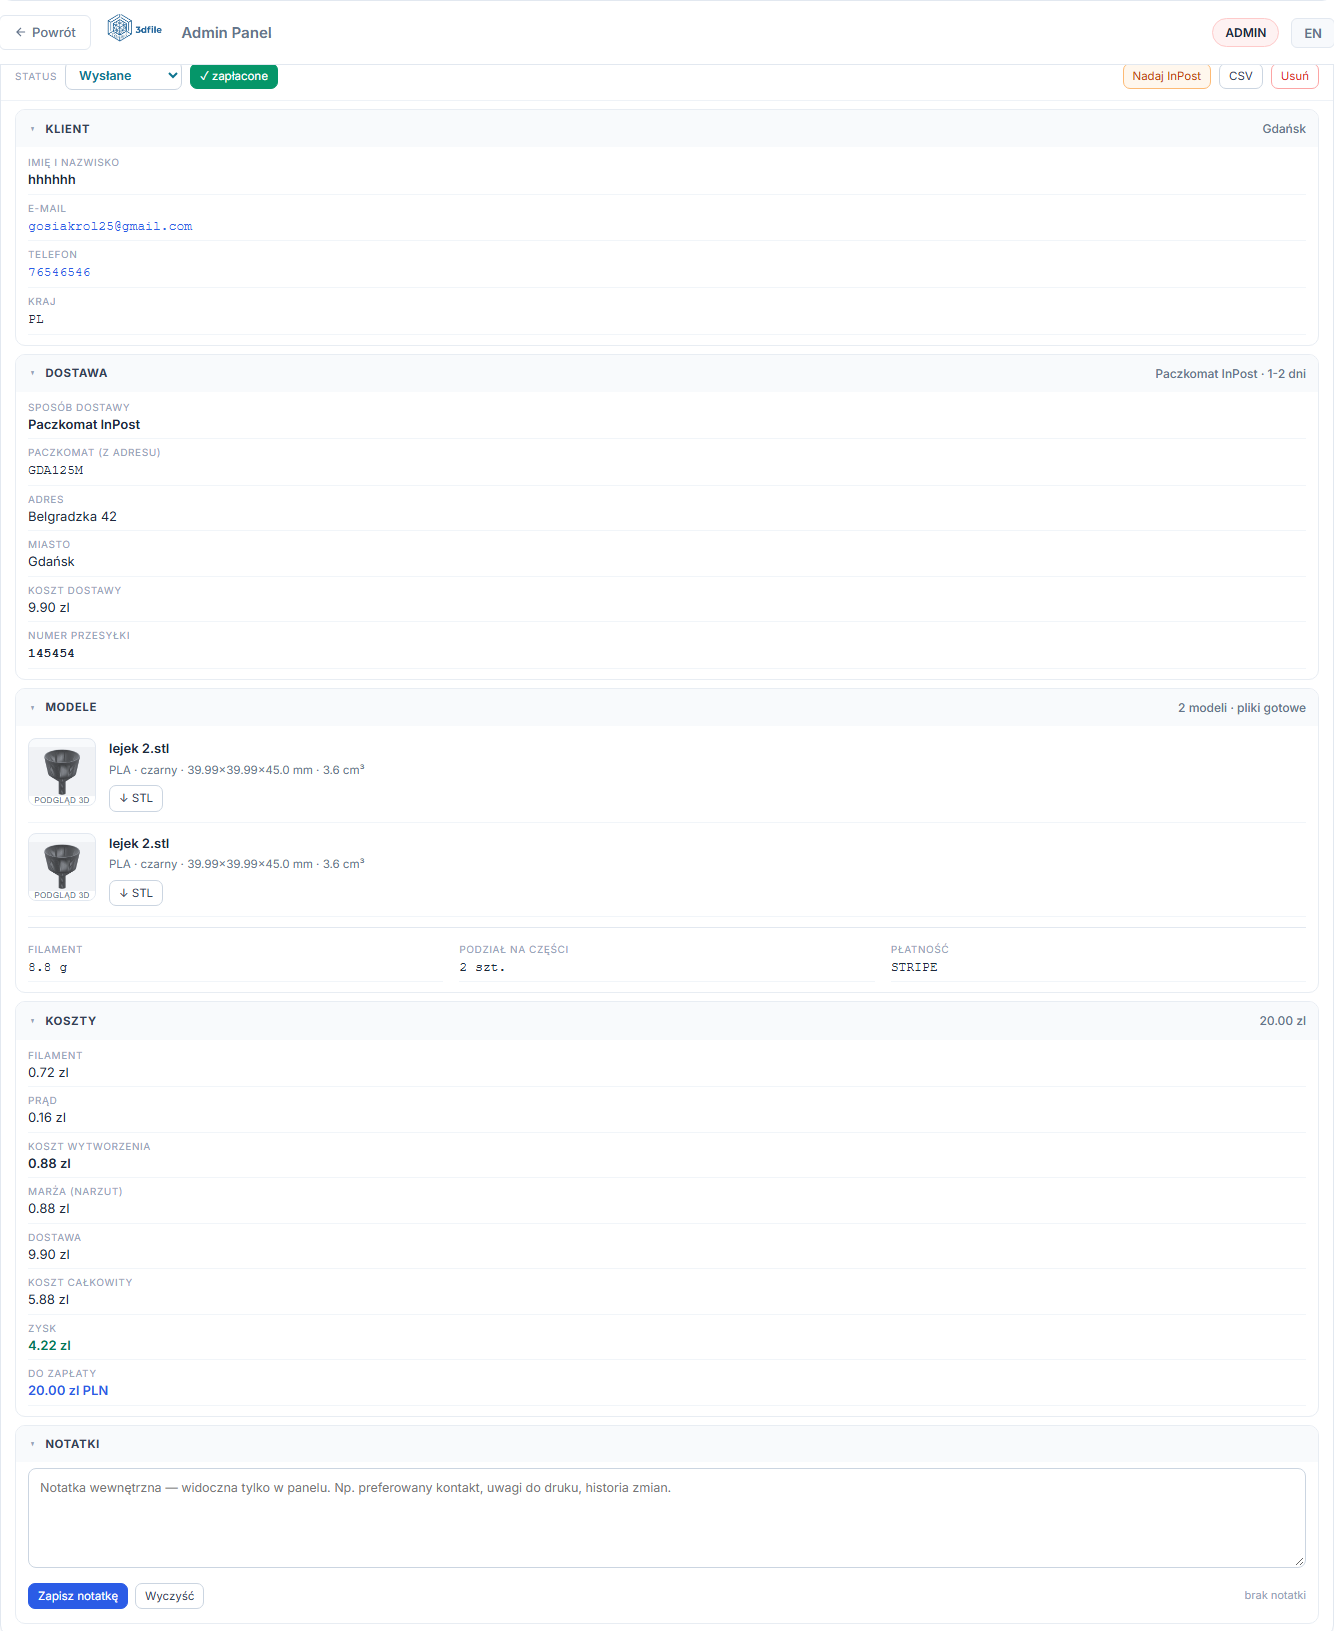
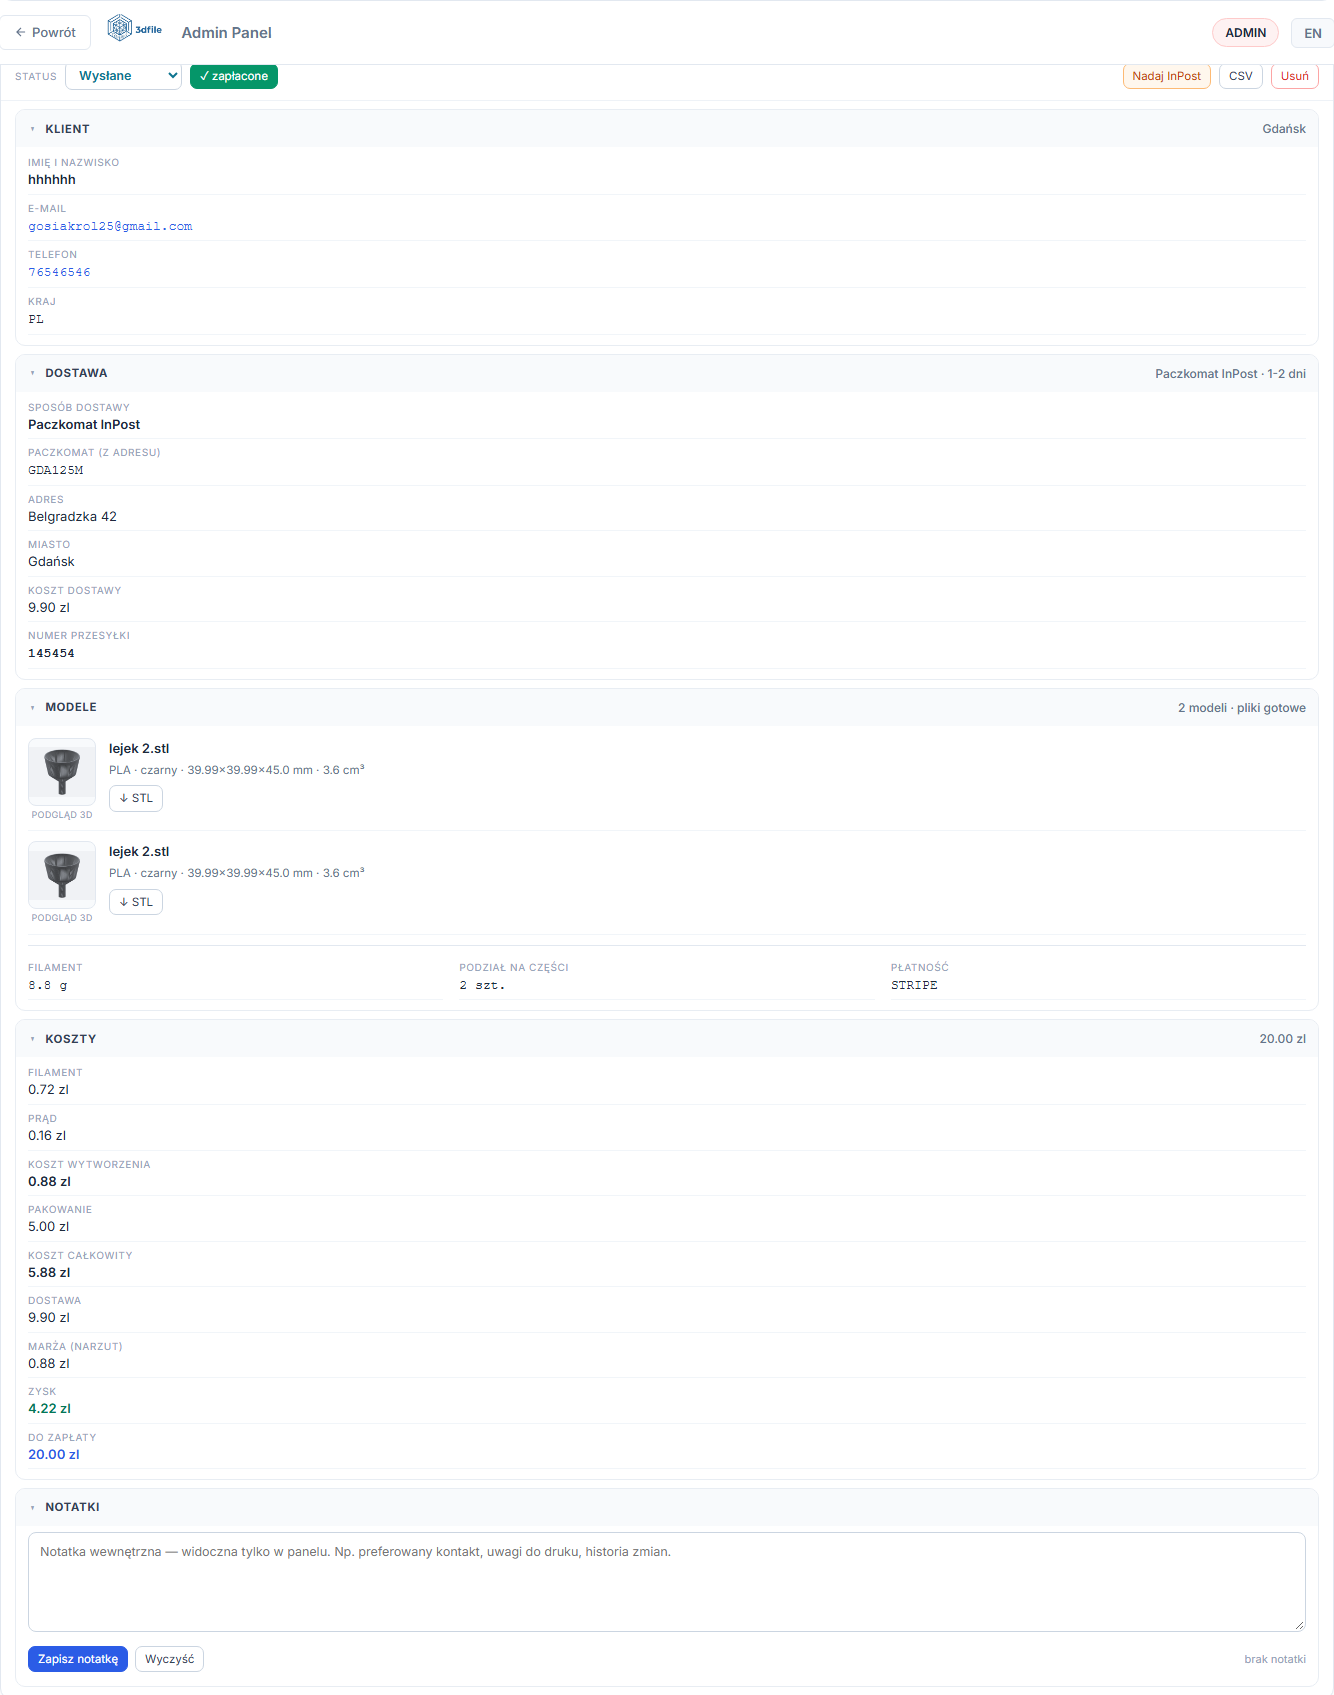
fix(admin): Koszty - rozdzielam koszt od przychodu
Marza (narzut) stala w srodku kolumny kosztow, przez co wygladala jak
pozycja sumowana do ceny. Zysk = cena - koszt calkowity - dostawa juz
uwzględnia narzut, wiec 5.88 + 9.90 + 4.22 = 20.00. Teraz dwa bloki:
KOSZT (filament, prad, pakowanie, wysylka) i PRZYCHOD (do zaplaty,
zysk, w tym narzut). order_card.js?v=3, APP_V 116 -> 117

diff --git a/frontend/asset/order_card.js b/frontend/asset/order_card.js
@@ -248,9 +248,10 @@
 
   /* ---------- Koszty ---------- */
   function secMoney(o) {
-    var g = '';
     var num = function (v) { return parseFloat(v || 0); };
+    var g = '';
 
+    /* --- KOSZT (suma w dół) --- */
     if (o.filament_cost) g += cell('Filament', zl(o.filament_cost));
     if (o.electricity_cost) g += cell('Prąd', zl(o.electricity_cost));
     if (o.color_premium) g += cell('Pigment', zl(o.color_premium));
@@ -263,18 +264,24 @@
     var pack = num(o.cost_pln) - num(o.subtotal);
     if (pack > 0.005) g += cell('Pakowanie', zl(pack));
     if (o.cost_pln) g += cell('Koszt całkowity', zl(o.cost_pln), { strong: true });
-
     if (o.shipping_cost) g += cell('Dostawa', zl(o.shipping_cost));
     if (o.discount_pln) g += cell('Rabat', '−' + zl(o.discount_pln), { color: '#b91c1c' });
-    if (o.margin_pln) g += cell('Marża (narzut)', zl(o.margin_pln));
 
+    /* --- PRZYCHÓD (nie sumuje się z kosztami — marża jest JUZ w zysku,
+           bo zysk = cena − koszt całkowity − dostawa) --- */
     var profit = (o.profit_pln !== null && o.profit_pln !== undefined)
                ? num(o.profit_pln)
                : (num(o.total) - num(o.shipping_cost) - num(o.cost_pln));
-    g += cell('ZYSK', zl(profit), { strong: true, color: profit >= 0 ? '#047857' : '#b91c1c' });
 
+    var rev = '';
     var totalTxt = zl(o.total) + ((o.currency || 'PLN') === 'PLN' ? '' : ' ' + (o.currency || 'PLN'));
-    g += cell('DO ZAPŁATY', totalTxt, { strong: true, color: '#2B5CE6' });
+    rev += cell('DO ZAPŁATY', totalTxt, { strong: true, color: '#2B5CE6' });
+    rev += cell('ZYSK', zl(profit), { strong: true, color: profit >= 0 ? '#047857' : '#b91c1c' });
+    if (o.margin_pln) rev += cell('w tym narzut', zl(o.margin_pln), { color: '#64748b' });
+
+    g += '<div style="margin-top:10px;padding-top:8px;border-top:1px solid #e2e8f0;'
+       + 'font-size:10px;letter-spacing:.06em;text-transform:uppercase;color:#94a3b8">Przychód</div>'
+       + rev;
 
     return section('k' + o.id, 'Koszty', zl(o.total, 2), g, false);
   }

diff --git a/frontend/admin.html b/frontend/admin.html
@@ -1,7 +1,7 @@
 <!DOCTYPE html>
 <html lang="pl">
 <head>
-<script>window.__APP_V='116';(function(){try{var k='appV',s=sessionStorage.getItem(k);if(s&&s!=='116'){sessionStorage.setItem(k,'116');if(window.caches&&caches.keys){caches.keys().then(function(a){return Promise.all(a.map(function(n){return caches.delete(n)}))}).then(function(){location.reload()});return}}sessionStorage.setItem(k,'116')}catch(e){}})();</script>
+<script>window.__APP_V='117';(function(){try{var k='appV',s=sessionStorage.getItem(k);if(s&&s!=='117'){sessionStorage.setItem(k,'117');if(window.caches&&caches.keys){caches.keys().then(function(a){return Promise.all(a.map(function(n){return caches.delete(n)}))}).then(function(){location.reload()});return}}sessionStorage.setItem(k,'117')}catch(e){}})();</script>
 
     <meta charset="utf-8">
     <meta name="viewport" content="width=device-width, initial-scale=1">
@@ -2001,7 +2001,7 @@ const I18N = {
 
     </script>
 <script src="/asset/admin_print.js?v=103"></script>
-<script src="/asset/order_card.js?v=2"></script>
+<script src="/asset/order_card.js?v=3"></script>
 <script></script>
     <script src="/asset/admin_analytics.js?v=3"></script>
     <script src="/asset/admin_launch.js?v=2"></script>
